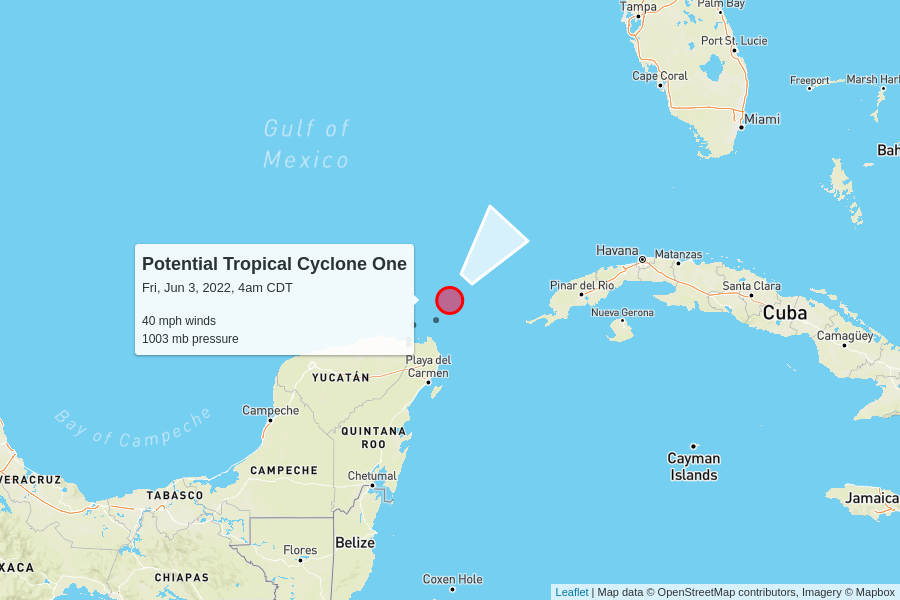
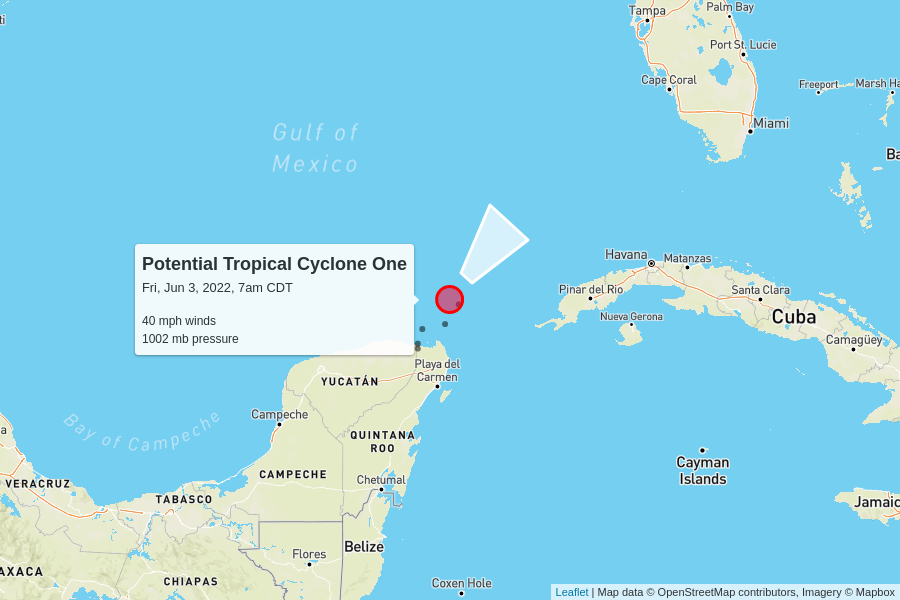
automatic update

diff --git a/docs/index.html b/docs/index.html
@@ -100,7 +100,7 @@
         <td colspan="6" class="storm category-0" >
           <h2>
             Potential Tropical Cyclone One
-            <p class="updated">last updated <span data-time>2022-06-03T09:00:00.000Z</span></p>
+            <p class="updated">last updated <span data-time>2022-06-03T12:00:00.000Z</span></p>
           </h2>
         </td>
       </tr>
@@ -116,7 +116,7 @@
       <tr>
         <td class="spacer"></td>
         <td>40 mph</td>
-        <td>1003 mb</td>
+        <td>1002 mb</td>
         <td>
           6 mph to the northeast
           <br/>
